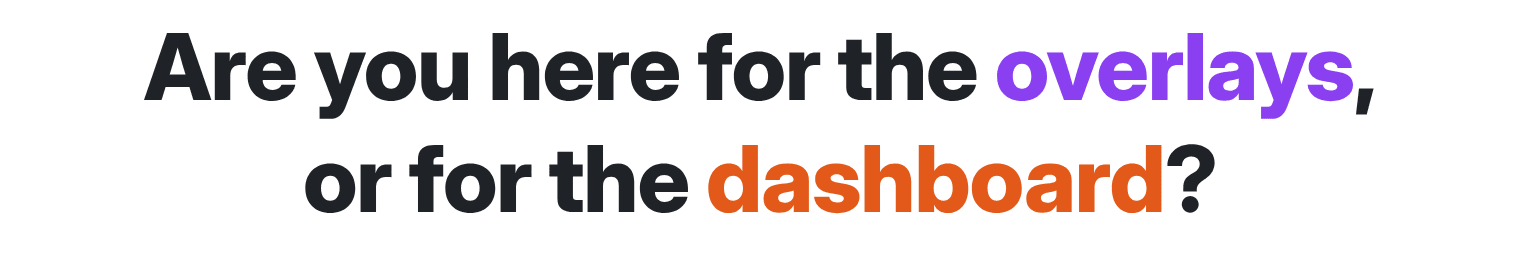
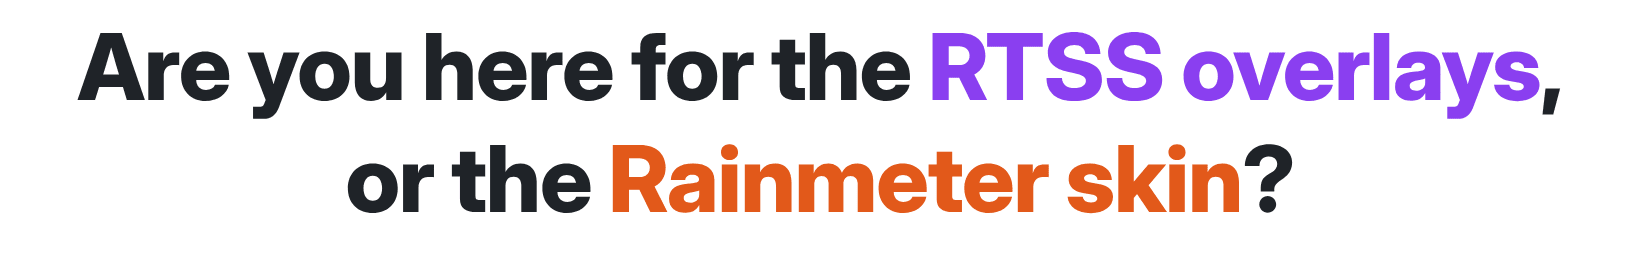
README

Changed region(s): [[0.0309, 0.124, 0.9586, 0.4651], [0.1855, 0.5581, 0.8039, 0.8372]]

diff --git a/README.md b/README.md
@@ -9,7 +9,7 @@ Hey! 👋  I designed and made Clean, Apple-style performance stats for PC: over
 <p align="center">
 <picture>
 <source media="(prefers-color-scheme: dark)" srcset="previews/brand/choose-title-dark.png">
-<img src="previews/brand/choose-title-light.png" width="620" alt="Are you here for the overlays, or for the dashboard?">
+<img src="previews/brand/choose-title-light.png" width="660" alt="Are you here for the RTSS overlays, or the Rainmeter skin?">
 </picture>
 </p>
 
